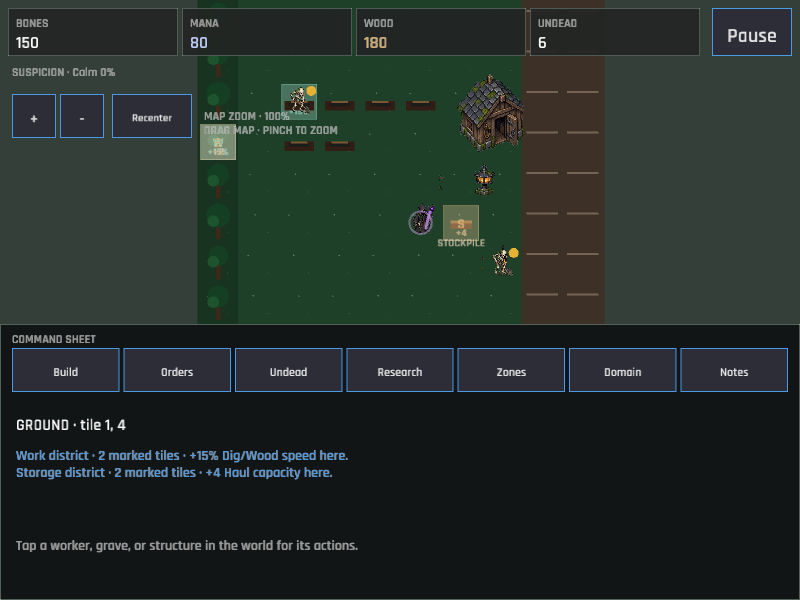
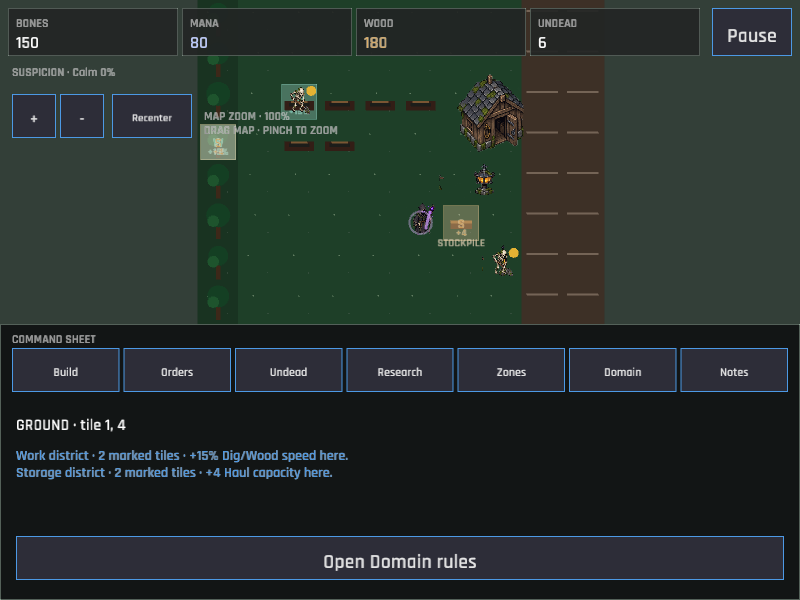
The marked ground points to its lawbook (direct Domain access)
A player inspecting a marked tile had to leave the inspector and find the Domain tab manually, even after the local rule was already explained. The desktop and compact inspectors now expose the same touch-sized Open Domain rules action whenever Domain Stewardship is unlocked, while locked states keep their existing guidance.

Changed region(s): [[0.0, 0.87, 1.0, 0.99]]

diff --git a/src/ui/responsive/selection.rs b/src/ui/responsive/selection.rs
@@ -25,7 +25,7 @@ pub(super) fn draw(
         Some(Selection::Grave(index)) => draw_grave(ctx, pointer, actions, sheet, index),
         Some(Selection::Building(index)) => draw_building(ctx, pointer, actions, sheet, index),
         Some(Selection::Necromancer) => draw_necromancer(ctx, pointer, actions, sheet),
-        Some(Selection::Ground(tile)) => draw_ground(ctx, sheet, tile),
+        Some(Selection::Ground(tile)) => draw_ground(ctx, pointer, actions, sheet, tile),
         None => draw_empty(sheet),
     }
 }
@@ -62,7 +62,13 @@ fn draw_placement(pointer: Pointer, actions: &mut Vec<UiAction>, sheet: Rect) {
     }
 }
 
-fn draw_ground(ctx: &UiContext<'_>, sheet: Rect, tile: TilePos) {
+fn draw_ground(
+    ctx: &UiContext<'_>,
+    pointer: Pointer,
+    actions: &mut Vec<UiAction>,
+    sheet: Rect,
+    tile: TilePos,
+) {
     draw_text_block(
         &format!("GROUND · tile {}, {}", tile.x + 1, tile.y + 1),
         sheet.x + 16.0,
@@ -87,16 +93,26 @@ fn draw_ground(ctx: &UiContext<'_>, sheet: Rect, tile: TilePos) {
             3.0,
             dark::ACCENT,
         );
-        draw_text_block(
-            "Tap a worker, grave, or structure in the world for its actions.",
+        let button = Rect::new(
             sheet.x + 16.0,
             sheet.y + 122.0 + summary_height + 8.0,
             sheet.w - 32.0,
-            36.0,
-            14.0,
-            3.0,
-            dark::TEXT_DIM,
+            44.0,
         );
+        if ctx
+            .session
+            .research
+            .is_unlocked(Technology::DomainStewardship)
+            && virtual_button(
+                button,
+                "Open Domain rules",
+                true,
+                ButtonTone::Secondary,
+                pointer,
+            )
+        {
+            actions.push(UiAction::TogglePanel(super::super::Panel::Domain));
+        }
     } else {
         draw_text_block(
             "Tap a worker, grave, or structure in the world for its actions.",

diff --git a/src/ui/hud.rs b/src/ui/hud.rs
@@ -218,16 +218,26 @@ pub(super) fn draw_inspector(ctx: &UiContext<'_>, pointer: Pointer, actions: &mu
                     4.0,
                     dark::ACCENT,
                 );
-                draw_text_block(
-                    "Select an actor or structure for contextual orders.",
+                let button = Rect::new(
                     panel.x + 18.0,
                     panel.y + 132.0 + summary_height + 8.0,
                     panel.w - 36.0,
-                    48.0,
-                    14.0,
-                    4.0,
-                    dark::TEXT_DIM,
+                    44.0,
                 );
+                if ctx
+                    .session
+                    .research
+                    .is_unlocked(Technology::DomainStewardship)
+                    && virtual_button(
+                        button,
+                        "Open Domain rules",
+                        true,
+                        ButtonTone::Secondary,
+                        pointer,
+                    )
+                {
+                    actions.push(UiAction::TogglePanel(Panel::Domain));
+                }
             } else {
                 draw_text_block(
                     "Select an actor or structure for contextual orders.",
